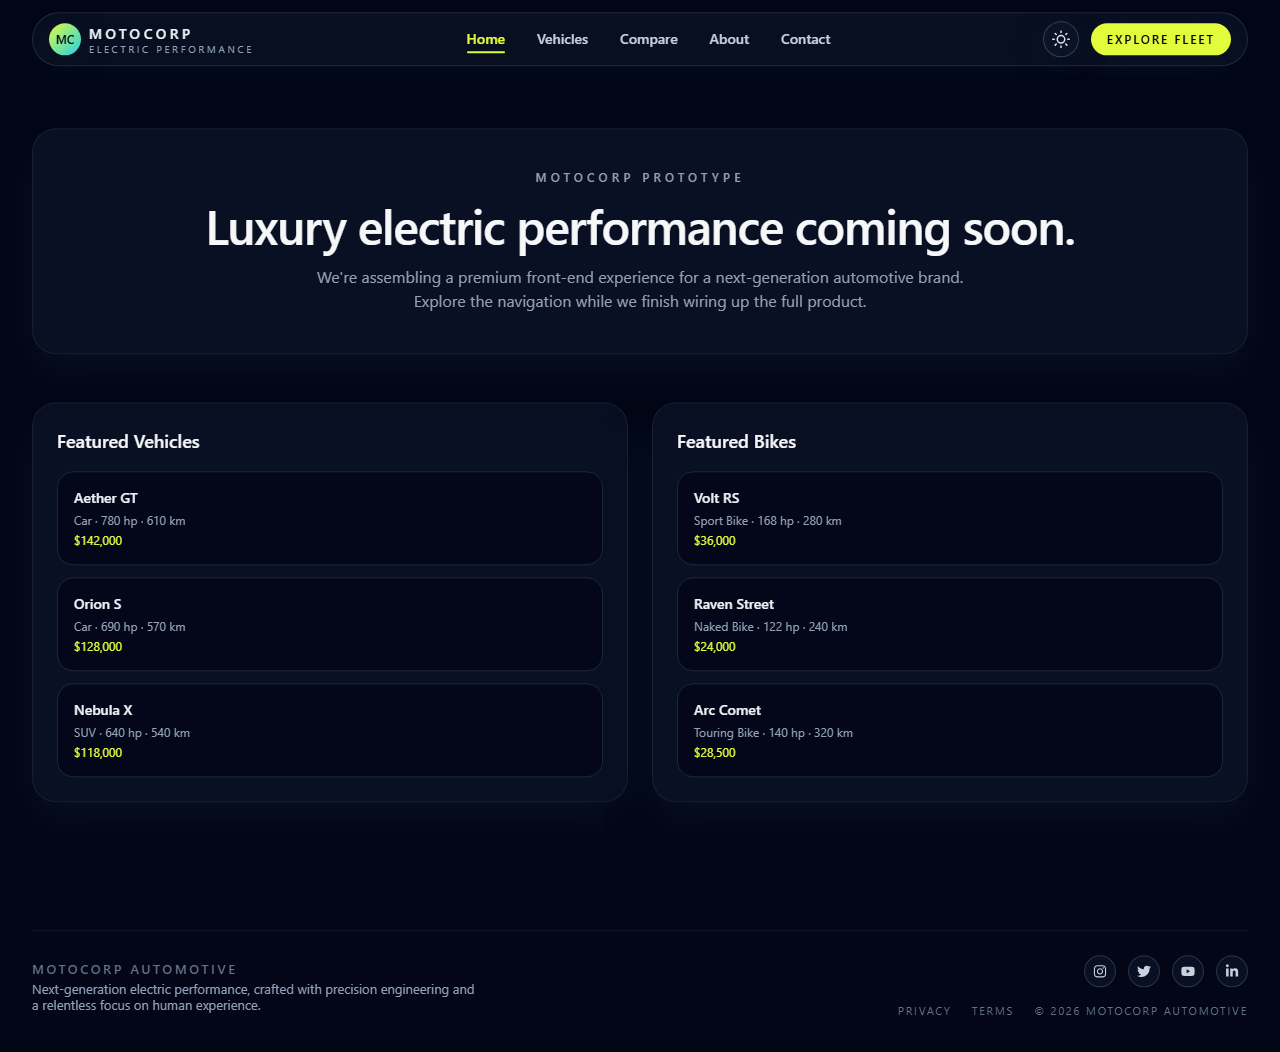
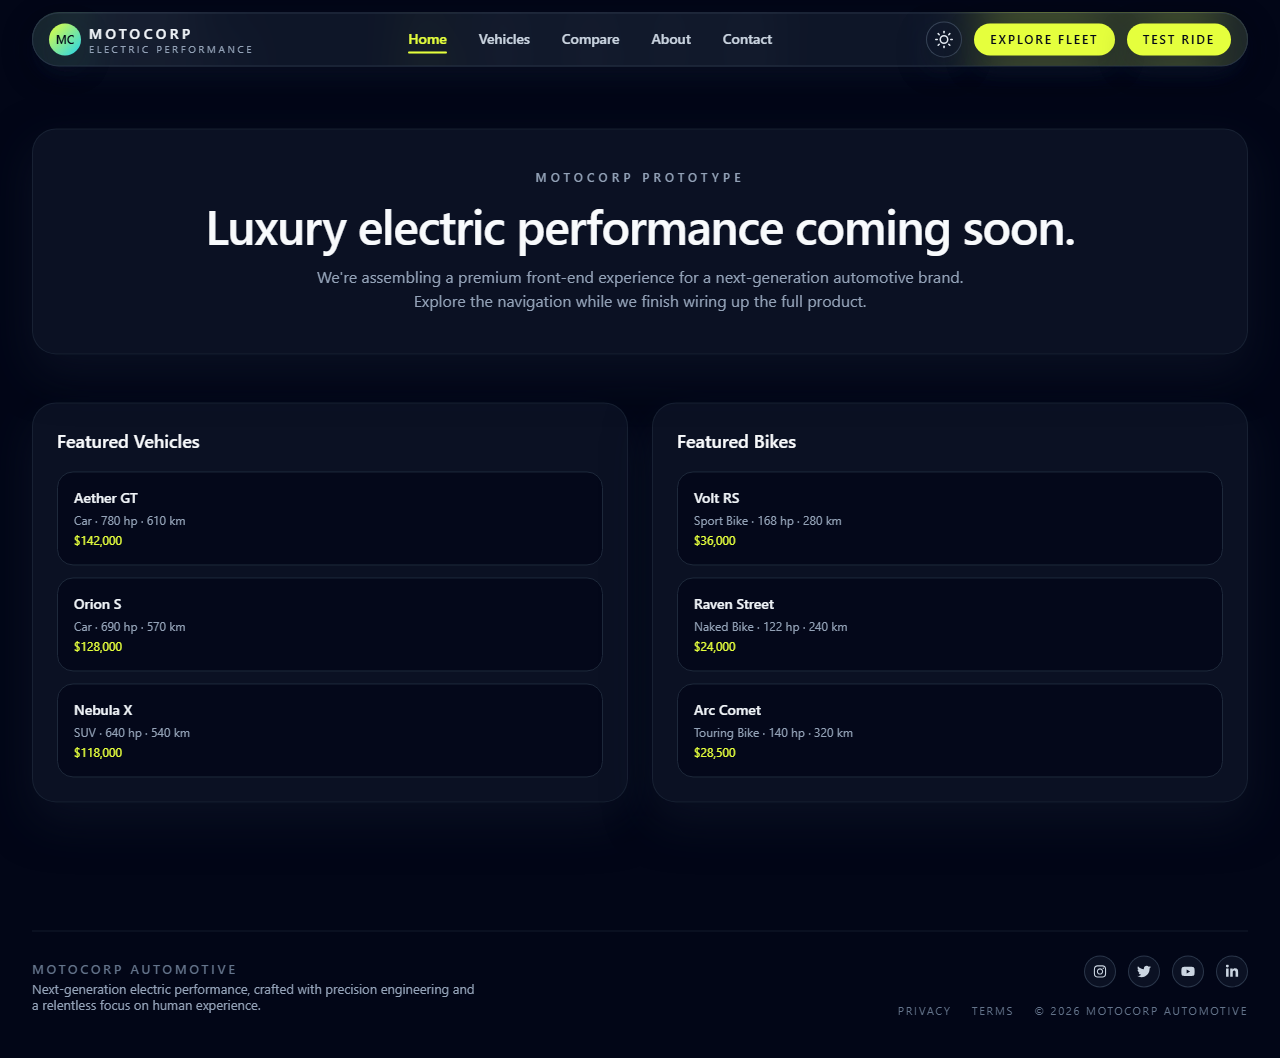
Implemented requirements from web UI on branch main

diff --git a/src/App.css b/src/App.css
@@ -182,3 +182,8 @@
     border-right-color: var(--border);
   }
 }
+
+.test-ride-button {
+  background-color: blue;
+  color: white;
+}

diff --git a/src/components/Navbar.jsx b/src/components/Navbar.jsx
@@ -143,7 +143,7 @@ export default function Navbar() {
 
             <button
               type="button"
-              className="hidden items-center justify-center rounded-full bg-primary px-4 py-2 text-xs font-semibold uppercase tracking-[0.16em] text-slate-950 shadow-soft transition hover:bg-primary/90 md:flex"
+              className="hidden items-center justify-center rounded-full bg-blue-500 px-4 py-2 text-xs font-semibold uppercase tracking-[0.16em] text-slate-950 shadow-soft transition hover:bg-blue-600 md:flex"
             >
               Test Ride
             </button>
@@ -178,7 +178,7 @@ export default function Navbar() {
 
                 <button
                   type="button"
-                  className="mt-2 flex items-center justify-center rounded-2xl bg-primary px-3 py-2 text-xs font-semibold uppercase tracking-[0.16em] text-slate-950"
+                  className="mt-2 flex items-center justify-center rounded-2xl bg-blue-500 px-3 py-2 text-xs font-semibold uppercase tracking-[0.16em] text-slate-950"
                 >
                   Test Ride
                 </button>

diff --git a/tailwind.config.js b/tailwind.config.js
@@ -20,6 +20,9 @@ export default {
           DEFAULT: 'rgba(15,23,42,0.85)',
           light: 'rgba(15,23,42,0.6)',
         },
+        blue: {
+          DEFAULT: '#0000ff',
+        },
       },
       backgroundImage: {
         'radial-glow':
@@ -33,4 +36,3 @@ export default {
   },
   plugins: [],
 }
-